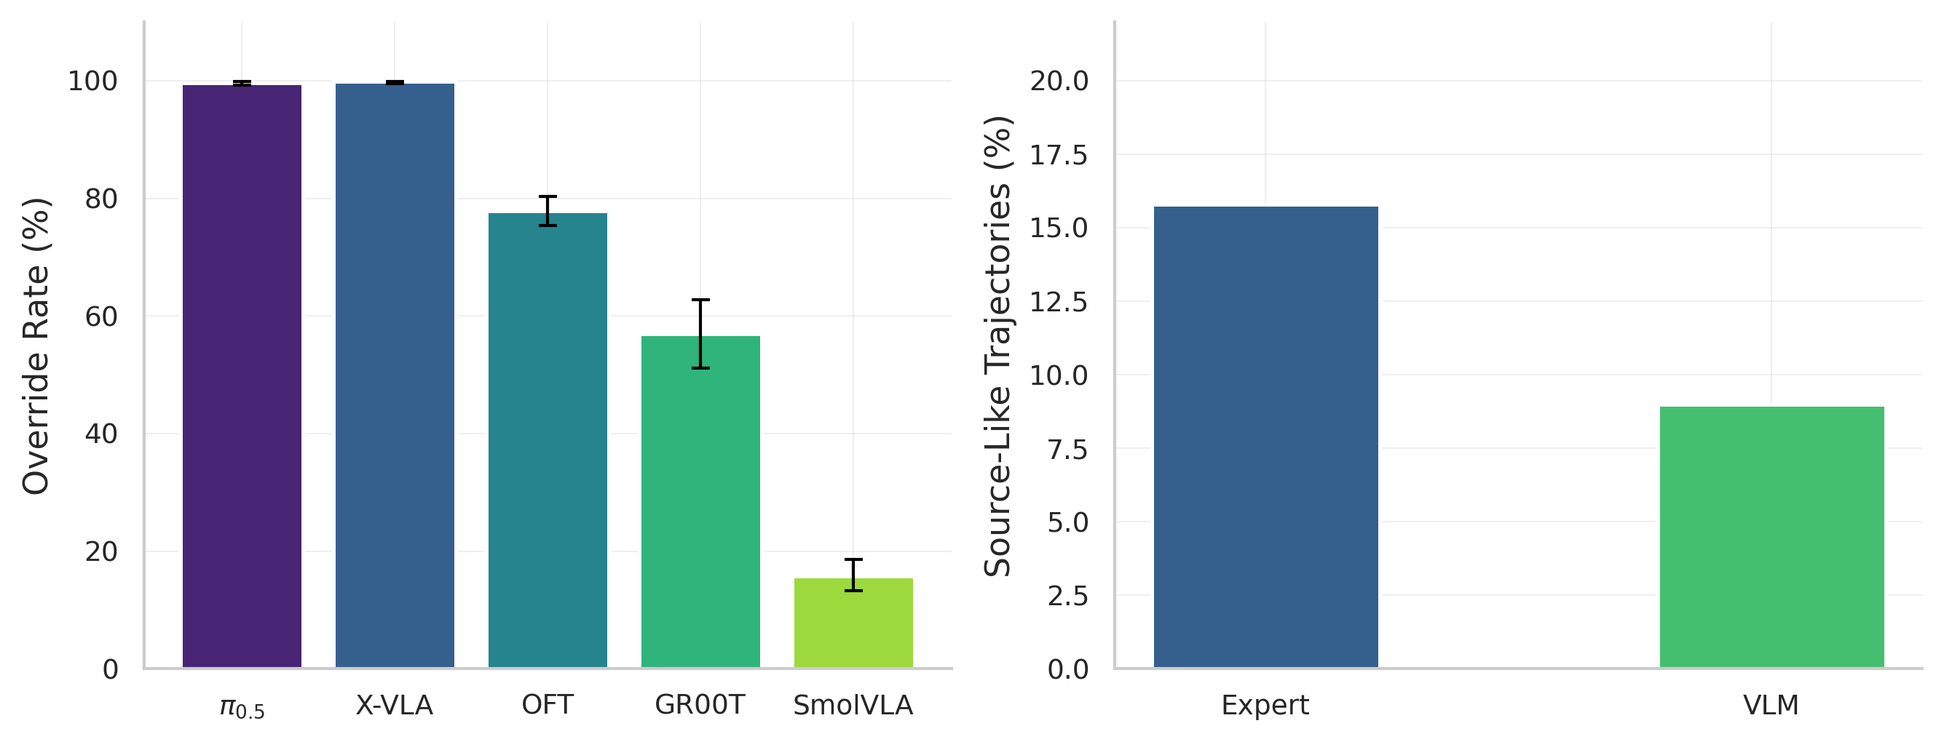
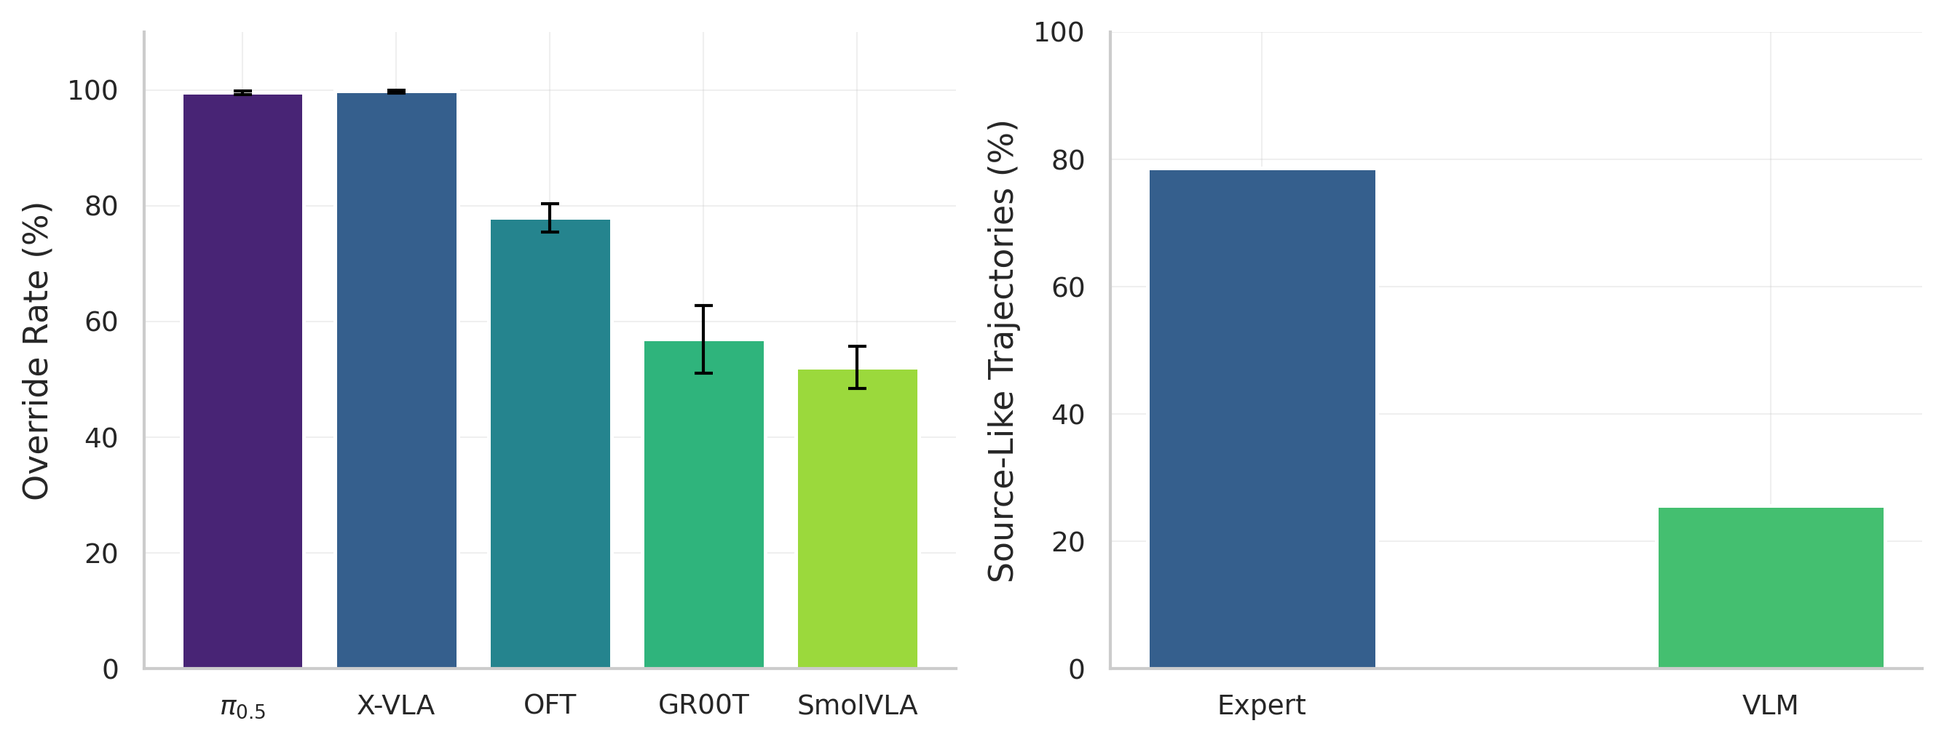
update

diff --git a/index.html b/index.html
@@ -3,7 +3,7 @@
 <head>
   <meta charset="utf-8">
   <meta name="description" content="Not All Features Are Created Equal: Mechanistic Interpretability of Vision-Language-Action Models.">
-  <meta name="keywords" content="VLA, Vision-Language-Action, Interpretability, Sparse Autoencoders, SAE, Robotics, Pi0.5, OpenVLA, Action Atlas">
+  <meta name="keywords" content="VLA, Vision-Language-Action, Interpretability, Sparse Autoencoders, SAE, Robotics, Pi0.5, OpenVLA, X-VLA, SmolVLA, GR00T, Action Atlas">
   <meta name="viewport" content="width=device-width, initial-scale=1">
   <title>Not All Features Are Created Equal | VLA Interpretability</title>
 
@@ -107,8 +107,14 @@
           <div class="is-size-6 publication-authors" style="margin-bottom: 0.5rem;">
             <span class="author-block" style="color: rgba(255,255,255,0.6);"><sup>1</sup>Electrical, Computer, and Systems Engineering, Case Western Reserve University</span>
           </div>
-          <div class="is-size-6 publication-authors" style="margin-bottom: 2rem;">
+          <div class="is-size-6 publication-authors" style="margin-bottom: 1.25rem;">
             <span class="author-block" style="color: rgba(255,255,255,0.6);"><sup>2</sup>Mechanical and Aerospace Engineering, Case Western Reserve University</span>
+          </div>
+
+          <div style="margin-bottom: 2rem;">
+            <span style="display: inline-block; padding: 6px 14px; border-radius: 20px; background: rgba(192, 57, 43, 0.18); border: 1px solid rgba(231, 76, 60, 0.45); color: #f5b7b1; font-weight: 600; font-size: 0.88rem; letter-spacing: 0.02em;">
+              ICLR 2026 Multimodal Intelligence Workshop <span style="color: #fff;">(Oral)</span>
+            </span>
           </div>
 
           <!-- Links -->
@@ -120,9 +126,9 @@
               </a>
             </span>
             <span class="link-block">
-              <a href="https://arxiv.org/abs/2603.19233v1" target="_blank" class="external-link button is-normal is-rounded is-dark">
+              <a href="#" class="external-link button is-normal is-rounded is-dark" style="position: relative;" onclick="event.preventDefault();">
                 <span class="icon"><i class="ai ai-arxiv"></i></span>
-                <span>arXiv</span>
+                <span>arXiv</span> <span class="coming-soon" style="margin-left: 8px;">soon</span>
               </a>
             </span>
             <span class="link-block">
@@ -158,20 +164,20 @@
   <div class="container is-max-desktop">
     <div class="stats-bar">
       <div class="stat-item">
-        <div class="stat-number">5</div>
-        <div class="stat-label">VLA Models</div>
+        <div class="stat-number">6</div>
+        <div class="stat-label">VLA Architectures</div>
       </div>
       <div class="stat-item">
-        <div class="stat-number">424,000+</div>
+        <div class="stat-number">420,000+</div>
         <div class="stat-label">Rollout Episodes</div>
       </div>
       <div class="stat-item">
-        <div class="stat-number">424</div>
+        <div class="stat-number">520+</div>
         <div class="stat-label">SAE Checkpoints</div>
       </div>
       <div class="stat-item">
-        <div class="stat-number">~7 TB</div>
-        <div class="stat-label">Activation Data</div>
+        <div class="stat-number">79</div>
+        <div class="stat-label">Manipulation Concepts</div>
       </div>
       <div class="stat-item">
         <div class="stat-number">4</div>
@@ -189,7 +195,7 @@
         <h2 class="title is-3 section-title has-text-centered">Abstract</h2>
         <div class="content has-text-justified" style="margin-top: 2rem; font-size: 1.05rem; line-height: 1.8; color: var(--text-mid);">
           <p>
-            Vision-Language-Action (VLA) models combine perception, language, and motor control in a single architecture, yet how they translate multimodal inputs into actions remains poorly understood. We apply activation injection, sparse autoencoders (SAEs), and linear probes to <strong>six models spanning 80M-7B parameters</strong> across <strong>424,000+ rollout episodes</strong> on four benchmarks. The visual pathway dominates action generation across all architectures: injecting baseline activations into null-prompt episodes recovers near-identical behavior, while cross-task injection steers robots toward source-task positions (99.8% of X-VLA episodes align with the source trajectory), exposing spatially bound motor programs tied to scene coordinates. <strong>Language sensitivity depends on task structure, not model design</strong>: when visual context uniquely specifies the task, language is ignored; when multiple goals share a scene, language becomes essential (X-VLA <code>libero_goal</code>: 94%&rarr;10% under wrong prompts vs. <code>libero_object</code>: 60-100% regardless). In all three multi-pathway architectures (Pi0.5, SmolVLA, GR00T), expert pathways encode motor programs while VLM pathways encode goal semantics (2&times; greater behavioral displacement from expert injection), and subspace injection confirms these occupy separable activation subspaces. Per-token SAE processing is essential for action fidelity on most architectures, though mean-pooling improves fidelity on X-VLA. Contrastive identification recovers 82+ manipulation concepts; causal ablation reveals sensitivity spanning 28-92% zero-effect rates independent of representation width. We release <a href="https://action-atlas.com" target="_blank"><strong>Action Atlas</strong></a> for interactive exploration of VLA representations across all six models.
+            A fine-tuned Vision-Language-Action (VLA) policy will pick up the alphabet soup and place it in the basket on demand, then drop the soup off the table when an evaluator shifts the basket five centimeters left. We use activation injection to ask what the policy is doing: inject task A's activations into task B's scene at the action expert, and <strong>&pi;0.5 executes task A's motor trajectory in 99.6% of episodes (n = 1,968); X-VLA does so in 99.8%</strong>. The injected program is bound to <strong>absolute workspace coordinates rather than the visible scene</strong>, which mechanistically explains the perturbation brittleness reported in concurrent benchmark work. The same intervention framework applied across six VLAs (&pi;0.5, OpenVLA-OFT, X-VLA, SmolVLA, GR00T&nbsp;N1.5, and ACT as a language-free control) on LIBERO, MetaWorld, SimplerEnv, and ALOHA over <strong>420,000+ rollouts</strong> surfaces three further findings: language is encoded by every architecture yet behaviorally ignored when vision uniquely identifies the goal; SAE pooling preference splits along architecture lines (&pi;0.5 per-token, X-VLA mean-pool, SmolVLA indifferent); and pathway specialization replicates wherever expert and VLM pathways are separable. SmolVLA's interleaved fusion attenuates the headline to 52.1% LIBERO override, scoping universality. We release <a href="https://action-atlas.com" target="_blank"><strong>Action Atlas</strong></a>, an interactive feature-exploration platform covering all 520+ trained SAEs and 79 identified concepts.
           </p>
         </div>
       </div>
@@ -221,7 +227,7 @@
             Sparse Autoencoders (SAEs)
           </h4>
           <p style="color: var(--text-mid); line-height: 1.7;">
-            We train <strong>424+ TopK SAEs</strong> (k=64) across all six models with 4-8x expansion. Each action token is processed independently to preserve temporal structure. Feature importance is scored via <strong>frequency-weighted contrastive selection</strong> using Cohen's d, recovering 82+ manipulation concepts.
+            We train <strong>520+ TopK SAEs</strong> (k=64) across all six models with 4&ndash;8&times; expansion. Each action token is processed independently to preserve temporal structure. Feature importance is scored via <strong>frequency-weighted contrastive selection</strong> (Cohen's d &times; top-k frequency), recovering 79 aligned manipulation concepts.
           </p>
         </div>
       </div>
@@ -232,10 +238,10 @@
             Activation Injection &amp; Causal Interventions
           </h4>
           <p style="color: var(--text-mid); line-height: 1.7;">
-            We test causality with four injection conditions: <strong>null injection</strong> (correct prompt to empty string), <strong>same-scene steering</strong> (redirect to alternate targets), <strong>cross-task injection</strong> (transfer across visual scenes), and <strong>cross-seed</strong> (same task, different initial conditions).
+            We test causality with four injection conditions: <strong>null injection</strong> (correct prompt to empty string), <strong>same-scene steering</strong> (redirect to alternate targets), <strong>cross-task injection</strong> (transfer across visual scenes), and <strong>random-direction</strong> (norm-matched control: 22% source behavior vs. 99.6% directed).
           </p>
           <p style="color: var(--text-mid); line-height: 1.7; margin-top: 0.75rem;">
-            <strong>Concept ablation</strong> zeros out specific SAE features during live rollouts, while <strong>feature steering</strong> scales feature activations by alpha to amplify or suppress encoded behaviors.
+            <strong>Concept ablation</strong> zeros out specific SAE features during live rollouts, while <strong>feature steering</strong> scales feature activations by &alpha; to amplify or suppress encoded behaviors.
           </p>
         </div>
       </div>
@@ -249,7 +255,7 @@
             Linear Probes
           </h4>
           <p style="color: var(--text-mid); line-height: 1.7;">
-            Ridge regression probes achieve 97-98% R&#178; across all action dimensions. A <strong>projection operator test</strong> confirms causality: projecting out the probe direction drops R&#178; to 0%.
+            Ridge regression probes recover prompt-category labels at <strong>&gt; 99% accuracy</strong> from the residual stream of every model tested. A <strong>projection operator test</strong> confirms causality: projecting out the probe direction drops downstream R&#178; to chance.
           </p>
         </div>
       </div>
@@ -260,7 +266,7 @@
             Counterfactual Prompting
           </h4>
           <p style="color: var(--text-mid); line-height: 1.7;">
-            We test language grounding with <strong>6 prompt variations</strong> across Pi0.5 (3,396+ episodes, ANOVA p = 0.25), SmolVLA (MetaWorld, 4 difficulty levels), and X-VLA (LIBERO + SimplerEnv): baseline, null (empty string), negation, motor commands, object swap, and temporal switches.
+            We test language grounding with <strong>6 prompt variations</strong> across <strong>11,226 counterfactual episodes</strong> spanning all five language-capable VLAs: baseline, null (empty string), negation, motor commands, object swap, and mid-episode temporal switches. SmolVLA is additionally evaluated across MetaWorld's four difficulty tiers.
           </p>
         </div>
       </div>
@@ -273,39 +279,39 @@
   <div class="container is-max-desktop">
     <h2 class="title is-3 section-title has-text-centered">Key Findings</h2>
     <p class="has-text-centered" style="color: var(--text-mid); margin-bottom: 2.5rem; margin-top: 1rem;">
-      Four findings that hold across five VLA architectures
+      A five-step argument across six VLA architectures
     </p>
 
     <div class="findings-list">
       <div class="finding-item">
         <div class="finding-marker">1</div>
         <div>
-          <h4>Visual Pathway Dominates Action Generation</h4>
-          <p>Injecting baseline visual activations into null-prompt episodes recovers near-identical behavior (cos&nbsp;=&nbsp;0.999). Cross-task injection steers robots toward source-task positions: 99.8% of X-VLA episodes align with the source trajectory, exposing spatially bound motor programs tied to scene coordinates.</p>
+          <h4>Visual Context Dominates Action Generation</h4>
+          <p>Replacing the prompt with an empty string and replaying the image stream from a different episode restores actions to cosine &ge; 0.99 against the original, with rollout success recovering to 14&ndash;77% across all six architectures. Zeroing the visual pathway collapses every model to noise.</p>
         </div>
       </div>
 
       <div class="finding-item">
         <div class="finding-marker">2</div>
         <div>
-          <h4>Language Sensitivity Depends on Task Structure</h4>
-          <p>When visual context uniquely specifies the task, language is ignored. When multiple goals share a scene, language becomes essential: X-VLA <code>libero_goal</code> drops from 94% to 10% under wrong prompts, while <code>libero_object</code> maintains 60-100% regardless of prompt.</p>
+          <h4>Motor Programs Bind to Absolute Spatial Coordinates</h4>
+          <p>Cross-task injection rebinds the trajectory, not the goal: &pi;0.5 99.6% (n=1,968), X-VLA 99.8% (n=3,150), OpenVLA-OFT 96.4% (n=1,079, tie-conditional), GR00T 57.0%, SmolVLA 52.1% on LIBERO. A norm-matched random-direction control yields 22%; a vision-only ACT controller produces 0.0% override by construction.</p>
         </div>
       </div>
 
       <div class="finding-item">
         <div class="finding-marker">3</div>
         <div>
-          <h4>Expert Pathways Encode Motor Programs</h4>
-          <p>In all three multi-pathway architectures (Pi0.5, SmolVLA, GR00T), expert pathways cause 2&times; greater behavioral displacement than VLM pathways. Subspace injection confirms these occupy separable activation subspaces: expert for HOW, VLM for WHAT.</p>
+          <h4>Language Becomes Necessary Only When Vision Is Ambiguous</h4>
+          <p>Linear probes recover prompt-category labels at &gt; 99% accuracy: the goal <em>is</em> encoded. Yet on visually unambiguous suites, replacing the prompt does almost nothing: across 11,226 counterfactual episodes, &pi;0.5 / LIBERO-Object yields F(4,3391)=1.23, p=0.247, &eta;&sup2;=0.0015. Language matters only when scenes are visually ambiguous.</p>
         </div>
       </div>
 
       <div class="finding-item">
         <div class="finding-marker">4</div>
         <div>
-          <h4>Per-Token SAE Processing Is Architecture-Dependent</h4>
-          <p>Per-token processing is essential for action fidelity on most architectures, though mean-pooling improves fidelity on X-VLA. Contrastive identification recovers 82+ manipulation concepts; causal ablation reveals sensitivity spanning 28-92% zero-effect rates independent of representation width.</p>
+          <h4>Pathway Specialization &amp; Architecture-Tied SAE Structure</h4>
+          <p>In all three multi-pathway architectures (&pi;0.5, SmolVLA, GR00T), expert pathways encode HOW and VLM pathways encode WHAT. SmolVLA's expert carries 78.6% of cross-task override vs. 25.6% for the VLM. Single-feature ablation produces 28&ndash;92% zero-effect rates depending on architecture; SAE pooling preference is architecture-tied (per-token for &pi;0.5 / OFT, mean-pool for X-VLA, indifferent on SmolVLA).</p>
         </div>
       </div>
     </div>
@@ -322,7 +328,7 @@
         <div class="figure-container">
           <img src="./static/images/fig_cross_task_displacement.png" alt="Cross-task displacement override rates">
           <p class="figure-caption">
-            Cross-task displacement override rates. Left: override rate across five models. Pi0.5 (99.6%) and X-VLA (99.8%) show near-complete source behavior transfer; OFT 77.9%; GR00T 57.0% (suite-dependent). Right: SmolVLA pathway displacement (15.8% expert vs. 9.0% VLM).
+            Cross-task injection override rates. Pi0.5 99.6% (n=1,968) and X-VLA 99.8% (n=3,150) show near-complete source behavior transfer; OpenVLA-OFT 96.4% (n=1,079, tie-conditional; 77.9% tie-inclusive); GR00T 57.0%; SmolVLA 52.1% on LIBERO with strong pathway split (78.6% expert vs. 25.6% VLM). Vision-only ACT control: 0.0%.
           </p>
         </div>
       </div>
@@ -330,7 +336,7 @@
         <div class="figure-container">
           <img src="./static/images/fig5_language.png" alt="Language ignored despite internal distinction">
           <p class="figure-caption">
-            Language is ignored despite internal distinction. Left: counterfactual prompting across 3,396+ episodes shows no significant behavioral difference (p&gt;0.24). Right: layer 17 classifiers distinguish prompts with 99.3% accuracy, yet behavior is unchanged.
+            Language is encoded yet behaviorally ignored on visually unambiguous suites. &pi;0.5 / LIBERO-Object across 3,396 counterfactual episodes shows no significant behavioral difference (F(4,3391)=1.23, p=0.247, &eta;&sup2;=0.0015), even though layer-17 classifiers distinguish the same prompts at &gt; 99% accuracy.
           </p>
         </div>
       </div>
@@ -339,7 +345,7 @@
     <div class="figure-container" style="margin-top: 1rem; max-width: 600px; margin-left: auto; margin-right: auto;">
       <img src="./static/images/fig_concept_ablation_cross_model.png" alt="Concept ablation causal sensitivity">
       <p class="figure-caption has-text-centered">
-        Concept ablation causal sensitivity across five models. SmolVLA (480-dim expert) is the most sensitive at 28% zero-effect rate; OFT (4096-dim) and X-VLA (1024-dim) are the most resilient at 92% and 82%. Causal sensitivity does not follow representation width.
+        Single-feature concept ablation across five language-capable VLAs. SmolVLA (480-dim expert) is the most sensitive at 28% zero-effect rate; OpenVLA-OFT (4096-dim) and X-VLA (1024-dim) are the most resilient at 92% and 82%. Causal sensitivity does not follow representation width; it is architecture-tied.
       </p>
     </div>
 
@@ -429,10 +435,10 @@
       <div class="column is-one-third">
         <div class="model-card">
           <div class="model-icon" style="background: linear-gradient(135deg, #c0392b, #e74c3c);">&#960;</div>
-          <div class="model-name">Pi0.5</div>
-          <div class="model-params">3B parameters</div>
+          <div class="model-name">&pi;0.5</div>
+          <div class="model-params">3B parameters, cross-task override 99.6% (n=1,968)</div>
           <div class="model-desc">PaliGemma VLM (SigLIP + Gemma 2.6B) with dedicated Gemma action expert (18L, 1024-dim). Flow matching with 50-step denoising and 50-step action chunking. Dual-pathway: VLM conditions expert.</div>
-          <span class="model-badge badge-primary">Flow Matching</span>
+          <span class="model-badge badge-primary">Flow Matching, Dual Pathway</span>
         </div>
       </div>
       <!-- OpenVLA-OFT -->
@@ -440,7 +446,7 @@
         <div class="model-card">
           <div class="model-icon" style="background: linear-gradient(135deg, #6930c3, #5390d9);">V</div>
           <div class="model-name">OpenVLA-OFT</div>
-          <div class="model-params">7B parameters</div>
+          <div class="model-params">7B parameters, cross-task override 96.4% (tie-conditional)</div>
           <div class="model-desc">Llama-2 7B with DINOv2 + SigLIP vision encoders. MLPResNet action head produces all 7 DOFs in one forward pass with 8-step chunking. Optimized Fine-Tuning via LoRA adapters preserves pretrained representation geometry.</div>
           <span class="model-badge badge-primary">Continuous L1 Regression</span>
         </div>
@@ -450,9 +456,9 @@
         <div class="model-card">
           <div class="model-icon" style="background: linear-gradient(135deg, #2d6a4f, #52b788);">A</div>
           <div class="model-name">ACT</div>
-          <div class="model-params">80M parameters &middot; Language-free control</div>
-          <div class="model-desc">ResNet encoder + transformer decoder. CVAE with action chunking for bimanual manipulation (TransferCube, Insertion). Serves as a non-VLA baseline.</div>
-          <span class="model-badge badge-warm">CVAE Decoder</span>
+          <div class="model-params">80M parameters, cross-task override 0.0% (n=10)</div>
+          <div class="model-desc">ResNet encoder + transformer decoder. CVAE with action chunking for bimanual manipulation (TransferCube, Insertion). Vision-only by construction; cross-task injection is bit-identical to baseline. Serves as the non-VLA control.</div>
+          <span class="model-badge badge-warm">CVAE, Vision-only Control</span>
         </div>
       </div>
       <!-- GR00T N1.5 -->
@@ -460,9 +466,9 @@
         <div class="model-card">
           <div class="model-icon" style="background: linear-gradient(135deg, #76b900, #43a047);">G</div>
           <div class="model-name">GR00T N1.5</div>
-          <div class="model-params">3B parameters</div>
-          <div class="model-desc">NVIDIA's triple-pathway foundation model: 16 DiT layers, 12 Eagle LM layers, and 4 VL Self-Attention layers (32 total). Flow-matching transformer for action generation.</div>
-          <span class="model-badge badge-green">Flow-Matching DiT</span>
+          <div class="model-params">3B parameters, cross-task override 57.0% (n=270)</div>
+          <div class="model-desc">NVIDIA's triple-pathway foundation model: 16 DiT layers, 12 Eagle LM layers, and 4 VL Self-Attention layers (32 total). DiT carries the motor signal: zeroing any DiT layer collapses every suite to 0%, while the four VL-SA layers tolerate ablation with 40 to 80% residual success.</div>
+          <span class="model-badge badge-green">Flow-Matching DiT, Triple Pathway</span>
         </div>
       </div>
       <!-- SmolVLA -->
@@ -470,9 +476,9 @@
         <div class="model-card">
           <div class="model-icon" style="background: linear-gradient(135deg, #f77f00, #e36414);">S</div>
           <div class="model-name">SmolVLA</div>
-          <div class="model-params">450M parameters</div>
-          <div class="model-desc">Interleaved dual-pathway: 32 VLM layers (960-dim) and 32 expert layers (480-dim) execute in alternation. Flow matching action generation with asynchronous inference. Tested on LIBERO (4 suites) and MetaWorld (50 tasks).</div>
-          <span class="model-badge badge-primary">Flow Matching</span>
+          <div class="model-params">450M parameters, LIBERO 52.1%, MetaWorld 12.4%</div>
+          <div class="model-desc">Interleaved dual-pathway: 32 VLM layers (960-dim) and 32 expert layers (480-dim) execute in alternation. The interleaved fusion mechanically attenuates cross-task override (expert pathway 78.6% vs. VLM pathway 25.6% on LIBERO); we treat SmolVLA as a scoping case for the universality claim.</div>
+          <span class="model-badge badge-primary">Flow Matching, Interleaved</span>
         </div>
       </div>
       <!-- X-VLA -->
@@ -480,8 +486,8 @@
         <div class="model-card">
           <div class="model-icon" style="background: linear-gradient(135deg, #ef476f, #d62828);">X</div>
           <div class="model-name">X-VLA</div>
-          <div class="model-params">~1B parameters</div>
-          <div class="model-desc">Florence-2 VLM with soft-prompted flow-matching action head. Cross-embodiment design tested on LIBERO and SimplerEnv (WidowX + Google Robot).</div>
+          <div class="model-params">~1B parameters, cross-task override 99.8% (n=3,150)</div>
+          <div class="model-desc">Florence-2 VLM with soft-prompted flow-matching action head. Cross-embodiment design tested on LIBERO and SimplerEnv (WidowX + Google Robot). Override is reported under action-vector cosine; an EEF-velocity classifier yields 52.8% (both disclosed in the paper's limitations).</div>
           <span class="model-badge badge-primary">Flow Matching + Soft Prompts</span>
         </div>
       </div>
@@ -538,37 +544,37 @@
       </thead>
       <tbody>
         <tr>
-          <td><strong>Pi0.5</strong></td>
-          <td>65,000+</td>
-          <td>36</td>
+          <td><strong>&pi;0.5</strong></td>
+          <td>71,500+</td>
+          <td>72</td>
           <td>43</td>
           <td>LIBERO</td>
         </tr>
         <tr>
           <td><strong>OpenVLA-OFT</strong></td>
           <td>70,700+</td>
-          <td>32</td>
+          <td>96</td>
           <td>45</td>
           <td>LIBERO</td>
         </tr>
         <tr>
           <td><strong>X-VLA</strong></td>
-          <td>80,000+</td>
-          <td>96</td>
+          <td>50,000+</td>
+          <td>120</td>
           <td>82</td>
           <td>LIBERO, SimplerEnv</td>
         </tr>
         <tr>
           <td><strong>SmolVLA</strong></td>
-          <td>42,000+</td>
-          <td>192</td>
+          <td>58,000+</td>
+          <td>146</td>
           <td>45</td>
           <td>LIBERO, MetaWorld</td>
         </tr>
         <tr>
           <td><strong>GR00T N1.5</strong></td>
           <td>164,700+</td>
-          <td>68</td>
+          <td>87</td>
           <td>36</td>
           <td>LIBERO</td>
         </tr>
@@ -581,9 +587,9 @@
         </tr>
         <tr style="font-weight: 700; border-top: 2px solid var(--border);">
           <td><strong>Total</strong></td>
-          <td><strong>424,000+</strong></td>
-          <td><strong>424</strong></td>
-          <td><strong>82+</strong></td>
+          <td><strong>420,000+</strong></td>
+          <td><strong>520+</strong></td>
+          <td><strong>79 unique</strong></td>
           <td><strong>4 benchmarks</strong></td>
         </tr>
       </tbody>
